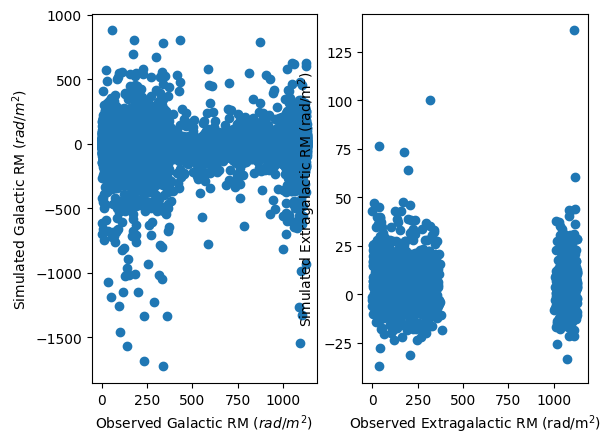
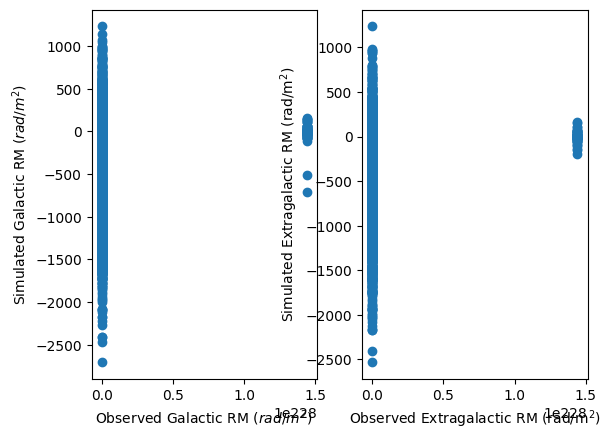
Ncomp format from K to D.

diff --git a/survey_maker.py b/survey_maker.py
@@ -159,7 +159,7 @@ class SurveyMaker():
             fits.Column(name='complex_test', format='80A', array=complex_test, unit=''),
             fits.Column(name='rm_method', format='40A', array=rm_method, unit=''),
             fits.Column(name='ionosphere', format='40A', array=ionosphere, unit=''),
-            fits.Column(name='Ncomp', format='K', array=Ncomp, unit=''),
+            fits.Column(name='Ncomp', format='D', array=Ncomp, unit=''),
             fits.Column(name='stokesI', format='D', array=stokesI, unit='Jy'),
             fits.Column(name='stokesI_err', format='D', array=stokesI_err, unit='Jy'),
             fits.Column(name='spectral_index', format='D', array=spectral_index, unit=''),
